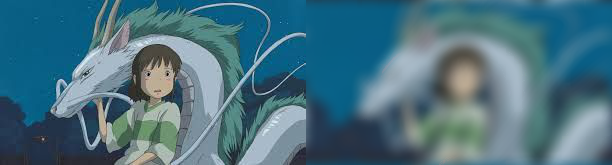
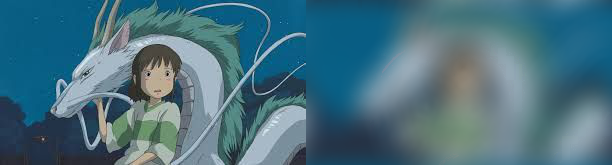
Add images + corrections

diff --git a/bilateral_filter_separable_kernel.py b/bilateral_filter_separable_kernel.py
@@ -34,7 +34,7 @@ def bruteForceCol(image, sigmaS, sigmaR):
             for x in range(W):
                     norm = np.sqrt((i-x)*(i-x))
                     if norm < 2*sigmaS:
-                        print("pixel",i, j, "and", x,j) #so we can see where we are
+                        #print("pixel",i, j, "and", x,j) #so we can see where we are
                         w = gaussianKernel(norm, sigmaS) * gaussianKernel(np.abs(image[i,j]-image[x,j]), sigmaR)
                         bf_image[i,j] += w*image[x,j]
                         Wp += w
@@ -53,7 +53,7 @@ def bruteForceRow(image, sigmaS, sigmaR):
             for y in range(H):
                 norm = np.sqrt((j-y)*(j-y))
                 if norm < 2*sigmaS:
-                    print("pixel",i, j, "and", i,y) #so we can see where we are
+                    #print("pixel",i, j, "and", i,y) #so we can see where we are
                     w = gaussianKernel(norm, sigmaS) * gaussianKernel(np.abs(image[i,j]-image[i,y]), sigmaR)
                     bf_image[i,j] += w*image[i,y]
                     Wp += w
@@ -62,22 +62,44 @@ def bruteForceRow(image, sigmaS, sigmaR):
 
 
 def main():
-    imageName ='cat_small.png'
-    image=skimage.io.imread(imageName)
-    im = skimage.color.rgb2gray(image)
-    startTime=time.time()
-    sigmaS = 4
-    sigmaR = 0.05
-    BF1 = bruteForceRow(im, sigmaS, sigmaR)
-    BF = bruteForceCol(BF1, sigmaS, sigmaR)
-    endTime =time.time()
-    print('execution time - complexity', (endTime - startTime  )/60, " minutes" )
-    #6 min cat small 4,0.8
-    #22,9 min chihiro 4,0.8
-    #6,58 min cat small 4,0.2
-    #6,51 min cat small 4,0.05
+    imageName ='ghibli.jpg'
+    image= imageio.imread(imageName)
+    image = image.astype(np.float32)/255.0
+        
+    #§plt.imshow(im,cmap=plt.cm.Greys_r)
+    #plt.pause(1)
     
+    startTime=time.time()
+    
+    sigmaS = 16
+    sigmaR = 0.1
+    
+    red_BF_row = bruteForceRow(image[:,:,0], sigmaS, sigmaR)
+    red_BF = bruteForceCol(red_BF_row, sigmaS, sigmaR)    
+    
+    green_BF_row = bruteForceRow(image[:,:,1], sigmaS, sigmaR)
+    green_BF = bruteForceCol(green_BF_row, sigmaS, sigmaR)    
+    
+    blue_BF_row = bruteForceRow(image[:,:,2], sigmaS, sigmaR)
+    blue_BF = bruteForceCol(blue_BF_row, sigmaS, sigmaR)    
+    
+    BF = np.stack([red_BF, green_BF, blue_BF], axis=2)
+    endTime =time.time()
+    
+    duration = endTime - startTime
+    if(duration < 60) :
+        print('execution time - complexity', duration, "secondes" )
+    else :
+        print('execution time - complexity', duration, "secondes" )
+        print('execution time - complexity', int(duration/60), " minutes", abs( int(duration/60) - duration/60 )*60, 'secondes' )
+    #
     plt.imshow(BF,cmap=plt.cm.Greys_r)
     #imageio.imwrite("./Outputs/SeparateKernel" + imageName + "sigmaS_" + str( sigmaS) + "_sigmaR_" + "0.05" +  ".png", im)
+    # stack the images horizontally
+    #skimage.io.imsave('./separable_kernel_outputs/Ghibli/Color/SK_ghibli_1_08.png', BF)
+    #skimage.io.imsave('./separable_kernel_outputs/Ghibli/Color/SK_ghibli_2_08.png', BF)
+    #skimage.io.imsave('./separable_kernel_outputs/Ghibli/Color/SK_ghibli_4_005.png', BF)
+    #skimage.io.imsave('./separable_kernel_outputs/Ghibli/Color/SK_ghibli_8_08.png', BF)
+    skimage.io.imsave('./separable_kernel_outputs/Ghibli/Color/SK_ghibli_16_01.png', BF)
     
 main()

diff --git a/bilateralGrid.py b/bilateralGrid.py
@@ -31,7 +31,7 @@ def gaussianFilter(sigmaS, sigmaR, gamma) :
     y = x 
     i = x
     xx, yy, ii = np.meshgrid(x,y,i)
-    kernel = np.exp(-(xx**2 + yy**2/(2*sigmaS**2)) + ((ii**2)/(2*sigmaR**2)))
+    kernel = np.exp(-((xx**2 + yy**2/(2*sigmaS**2)) + ((ii**2)/(2*sigmaR**2))))
     return kernel
 
 def smoothGaussian(gamma, sigmaS, sigmaR):
@@ -44,14 +44,14 @@ def smoothGaussian(gamma, sigmaS, sigmaR):
 
 #Wi get gamma : 3D structure
 #W get non negative weight
-def get_Wi_W(X,Y, I, sigS, sigR) :
-    Wi = np.zeros((X,Y,int(np.round(sigR))+1))
+def get_Wi_W(X,Y, I, sigS, sigR, R) :
+    Wi = np.zeros((X,Y,R+1))
     print('Wi shape in downS', Wi.shape)
-    W = np.zeros((X,Y,int(np.round(sigR))+1))
+    W = np.zeros((X,Y,int(np.round(R))+1))
     for i in range(X) :
         for j in range(Y) :
-            z = int(np.round(I[i,j]*sigR))
-            assert(z>=0 and z<int(np.round(sigR))+1)
+            z = int(np.round(I[i,j]*R))
+            assert(z>=0 and z<R+1)
             #Gamma 3D
             #Intensity
             #print('z ',z)
@@ -70,15 +70,14 @@ def get_Wi_W(X,Y, I, sigS, sigR) :
 #http://people.csail.mit.edu/sparis/publi/2009/fntcgv/Paris_09_Bilateral_filtering.pdf
 
 def bilateralGrid(sigmaS, sigmaR, image):
-    #assert(sigmaS>=1 and sigmaR>=1)
     #intensity of one pixel = gray level 
     I = skimage.color.rgb2gray(image)
     plt.imshow(I,cmap=plt.cm.Greys_r)
     plt.pause(1)
     X = image.shape[0]
     Y = image.shape[1]
-    
-    Wi, W = get_Wi_W(X,Y,I,sigmaS,sigmaR)
+    R = 20
+    Wi, W = get_Wi_W(X,Y,I,sigmaS,sigmaR,R)
     print('Wi shape', Wi.shape)
     print('W shape', W.shape)
     Wi_smooth = smoothGaussian(Wi, sigmaS, sigmaR)
@@ -97,18 +96,25 @@ def bilateralGrid(sigmaS, sigmaR, image):
             #print('np.sum(W_smooth[i,j])', np.sum(W_smooth[i,j]))
             #There is normally one element != 0, so we make the sum to get it
             # wI~ / w~
-            BF[i,j] += abs( np.sum(Wi_smooth[i,j])/ np.sum(W_smooth[i,j]))
+            z = int(np.round(I[i,j]*R))
+            BF[i,j] += abs( Wi_smooth[i,j,z]/ W_smooth[i,j,z])
             if (BF[i,j] > 1) :
                 BF[i,j] =1
     return BF
 
 def main() : 
-    im=skimage.io.imread('cat.png')
+    im=skimage.io.imread('ghibli.jpg')
     startTime=time.time()
-    BF = bilateralGrid(8,0.05,im)
+    BF = bilateralGrid(16,0.8,im)
     endTime =time.time()
-    print('execution time - complexity', (endTime - startTime  )/60, " minutes" )
+    duration = endTime - startTime
+    if(duration < 60) :
+        print('execution time - complexity', duration, "secondes" )
+    else :
+        print('execution time - complexity', duration, "secondes" )
+        print('execution time - complexity', int(duration/60), " minutes", abs( int(duration/60) - duration/60 )*60, 'secondes' )
     plt.imshow(BF,cmap=plt.cm.Greys_r)
+    skimage.io.imsave('./bilateral_grid_outputs/BG_ghibli_16_08.png', BF)
     
 
 main()

diff --git a/bilateral_filter_brute_force.py b/bilateral_filter_brute_force.py
@@ -40,16 +40,16 @@ def main():
     f = plt.figure()
     f.add_subplot(1,2, 1)
     plt.imshow(image_grayscale, cmap=plt.cm.gray)
-    print(image_grayscale)
+    #print(image_grayscale)
     
     start_time = time.time()
-    filtered_image = bruteForceBilateralFilter(image_grayscale, 3, 0.2) #takes a while with sigmaS > 2 or big images
+    filtered_image = bruteForceBilateralFilter(image_grayscale, 3, 0.05) #takes a while with sigmaS > 2 or big images
     print("--- %s seconds ---" % (time.time() - start_time))
     
     f.add_subplot(1,2, 2)
     plt.imshow(filtered_image, cmap=plt.cm.gray)
     
-    imageio.imwrite("./brute_force_outputs/filtered_ghibli_3_02.png", filtered_image)
+    #imageio.imwrite("./brute_force_outputs/filtered_ghibli_3_02.png", filtered_image)
     
     
 

diff --git a/bilateral_filter_bilateral_Grid2.py b/bilateral_filter_bilateral_Grid2.py
@@ -85,10 +85,10 @@ def bilateralGrid(sigmaS, sigmaR, image):
         w=0
         for j in range (BF.shape[1]) :
             k = int(np.round(I[i,j]*255)) 
-            wi = GB_gamma[i,j,k][0]
-            print('wi', GB_gamma[i,j,k][0])
-            w = GB_gamma[i,j,k][1]
-            print('w', GB_gamma[i,j,k][1])
+            wi = np.sum(GB_gamma[i,j,:][0])
+            #print('wi', GB_gamma[i,j,k][0])
+            w = np.sum(GB_gamma[i,j,:][1])
+            #print('w', GB_gamma[i,j,k][1])
             BF[i,j] = abs(wi/w)
             if (BF[i,j] > 1) :
                 BF[i,j] = 1

diff --git a/bilateral_filter_jamesgregson.py b/bilateral_filter_jamesgregson.py
@@ -92,7 +92,7 @@ def main():
     # stack the images horizontally
     out = np.hstack( [img, bilateral] )
     
-    skio.imsave('./jamesgregson_outputs/ghibli_16_08.png', out*255.0)
+    skio.imsave('./jamesgregson_outputs/ghibli_8_08.png', out)
 
 
 if __name__ == "__main__":
